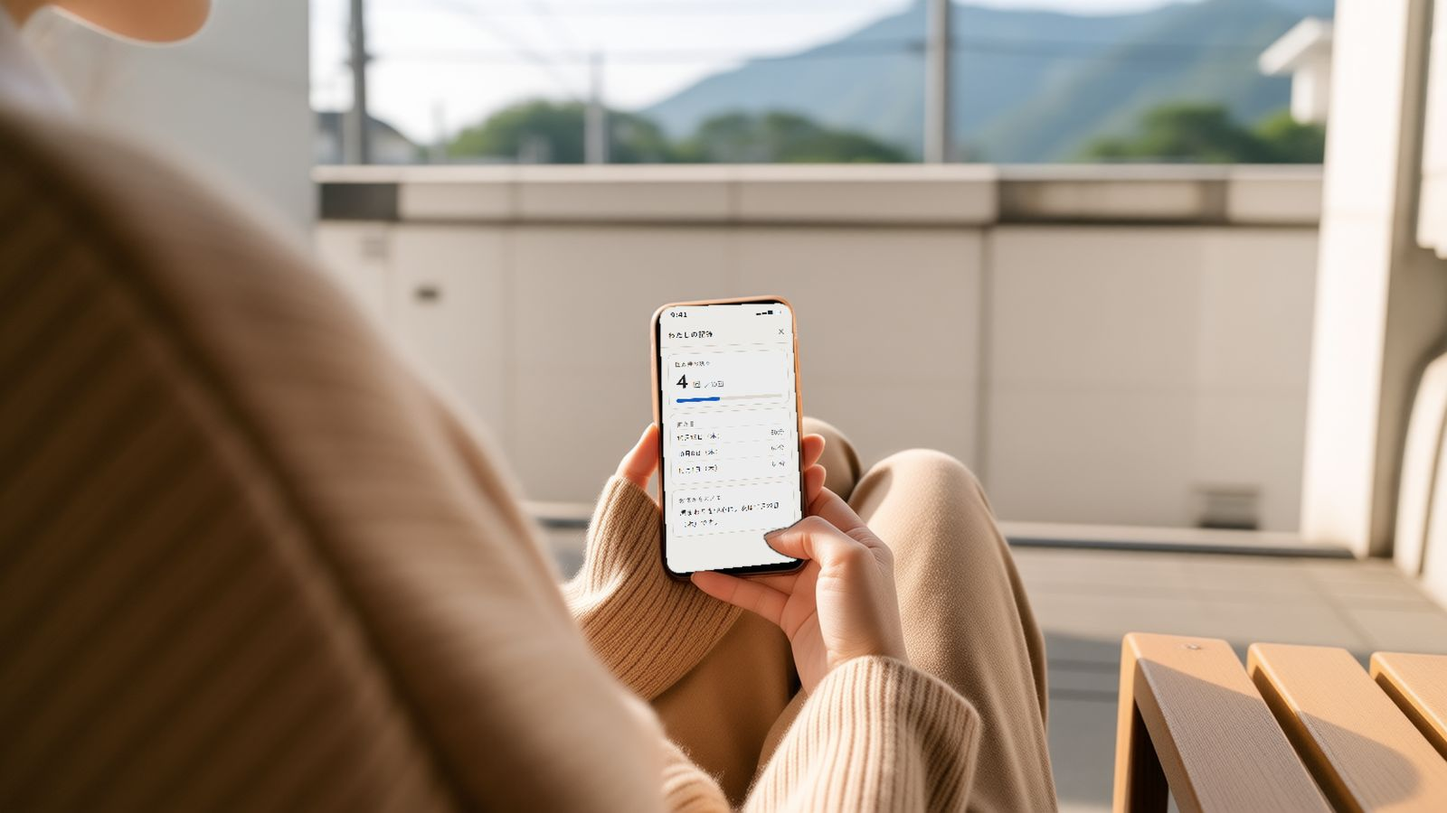
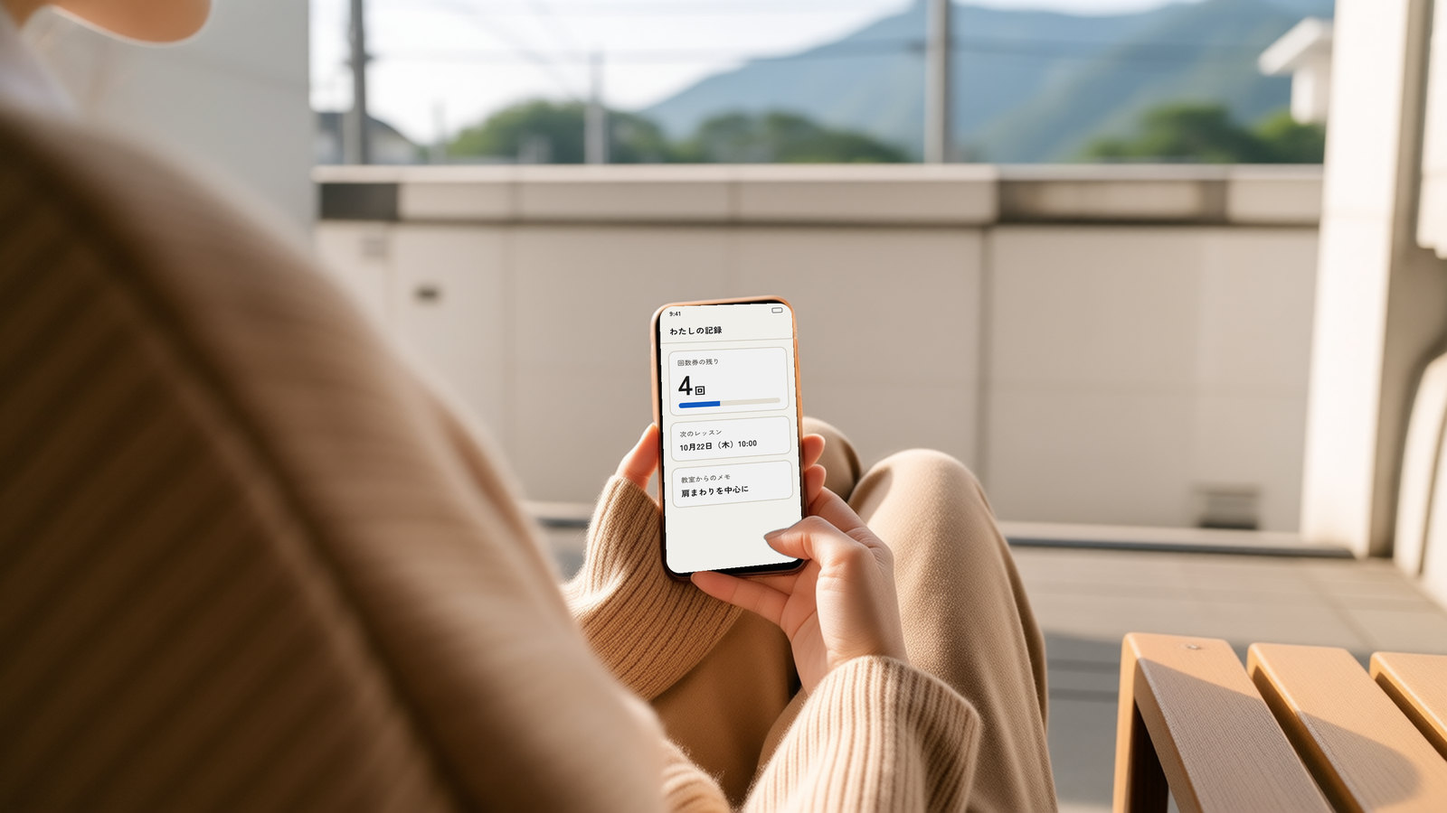
スマホの画面のガビガビを直した: 写真を2倍に広げてから、画面を先にはめる大きさまで縮めて射影（大きい画像を一気に縮めて字と線が欠けていた）。画面の見本は字を大きく・少なくした。JPEG は 4:4:4・品質86。画像の版を v=5 に
Claude-Session: https://claude.ai/code/session_01JTS9wHoswqBZuuv7uGtGUu

Changed region(s): [[0.4688, 0.3733, 0.5625, 0.6533], [0.5312, 0.6222, 0.5625, 0.6533], [0.5312, 0.3733, 0.5625, 0.4044]]

diff --git a/line/index.html b/line/index.html
@@ -13,7 +13,7 @@
 <link rel="preload" href="../assets/fonts/zenkaku-500.woff2" as="font" type="font/woff2" crossorigin>
 <script>if(!matchMedia("(prefers-reduced-motion: reduce)").matches&&!/[?&#]edit\b/.test(location.search+location.hash)){document.documentElement.classList.add("anim");setTimeout(function(){if(!document.documentElement.classList.contains("ready"))document.documentElement.classList.remove("anim")},3000)}</script>
 <link rel="stylesheet" href="../style.css?v=h2">
-<link rel="stylesheet" href="../line/line.css?v=4">
+<link rel="stylesheet" href="../line/line.css?v=5">
 <script src="../script.js?v=h1" defer></script>
 </head>
 <body class="page-line v3" data-line-url="https://line.me/R/ti/p/@914vzoom" data-line-id="@914vzoom" data-count="">
@@ -49,7 +49,7 @@
 <p class="hero-when">いまは相談と見積もりを受け付けています。作り始めは2027年1月からの予定です。</p>
 </div>
 <figure class="hero-figure hv">
-<video autoplay muted loop playsinline preload="metadata" poster="../assets/line/hero-poster.jpg?v=4" width="1280" height="720" aria-label="朝の教室の受付。カウンターのお茶から湯気が立つイメージ映像"><source src="../assets/line/hero.mp4?v=4" type="video/mp4"></video>
+<video autoplay muted loop playsinline preload="metadata" poster="../assets/line/hero-poster.jpg?v=5" width="1280" height="720" aria-label="朝の教室の受付。カウンターのお茶から湯気が立つイメージ映像"><source src="../assets/line/hero.mp4?v=5" type="video/mp4"></video>
 <button class="hv-btn" type="button" data-s="pause" aria-label="映像を止める"><svg class="ic" aria-hidden="true"><use class="u-pause" href="#i-pause"/><use class="u-play" href="#i-play"/></svg></button>
 </figure>
 </section>
@@ -57,21 +57,21 @@
 <p class="label"><span class="en">ISSUES</span><span class="t">こんなこと、ありませんか</span></p>
 <h2 id="issues-title">毎日の、<br>小さな手間。</h2>
 <ul class="pcards">
-<li><img class="" src="../assets/line/before-kiroku-1600.jpg?v=4" srcset="../assets/line/before-kiroku-800.jpg?v=4 800w, ../assets/line/before-kiroku-1600.jpg?v=4 1600w" sizes="(max-width: 760px) 100vw, 50vw" width="1600" height="900" alt="机の上の紙の回数券とスタンプ" loading="lazy" decoding="async"><p>「あと何回でしたっけ？」と聞かれるたびに、紙のカードや表を探している。</p></li>
-<li><img class="" src="../assets/line/before-yoyaku-1600.jpg?v=4" srcset="../assets/line/before-yoyaku-800.jpg?v=4 800w, ../assets/line/before-yoyaku-1600.jpg?v=4 1600w" sizes="(max-width: 760px) 100vw, 50vw" width="1600" height="900" alt="お店のカウンターの予約の台帳と電話" loading="lazy" decoding="async"><p>予約の電話や DM を手帳に書き写して、確認の連絡を返している。</p></li>
-<li><img class="" src="../assets/line/before-chiiki-1600.jpg?v=4" srcset="../assets/line/before-chiiki-800.jpg?v=4 800w, ../assets/line/before-chiiki-1600.jpg?v=4 1600w" sizes="(max-width: 760px) 100vw, 50vw" width="1600" height="900" alt="公民館の掲示板に貼られたたくさんの紙" loading="lazy" decoding="async"><p>団体の連絡が、担当の人の個人の LINE と掲示板の紙に頼っている。</p></li>
+<li><img class="" src="../assets/line/before-kiroku-1600.jpg?v=5" srcset="../assets/line/before-kiroku-800.jpg?v=5 800w, ../assets/line/before-kiroku-1600.jpg?v=5 1600w" sizes="(max-width: 760px) 100vw, 50vw" width="1600" height="900" alt="机の上の紙の回数券とスタンプ" loading="lazy" decoding="async"><p>「あと何回でしたっけ？」と聞かれるたびに、紙のカードや表を探している。</p></li>
+<li><img class="" src="../assets/line/before-yoyaku-1600.jpg?v=5" srcset="../assets/line/before-yoyaku-800.jpg?v=5 800w, ../assets/line/before-yoyaku-1600.jpg?v=5 1600w" sizes="(max-width: 760px) 100vw, 50vw" width="1600" height="900" alt="お店のカウンターの予約の台帳と電話" loading="lazy" decoding="async"><p>予約の電話や DM を手帳に書き写して、確認の連絡を返している。</p></li>
+<li><img class="" src="../assets/line/before-chiiki-1600.jpg?v=5" srcset="../assets/line/before-chiiki-800.jpg?v=5 800w, ../assets/line/before-chiiki-1600.jpg?v=5 1600w" sizes="(max-width: 760px) 100vw, 50vw" width="1600" height="900" alt="公民館の掲示板に貼られたたくさんの紙" loading="lazy" decoding="async"><p>団体の連絡が、担当の人の個人の LINE と掲示板の紙に頼っている。</p></li>
 </ul>
 </section>
 <section class="sec " id="lps" aria-labelledby="lps-title">
 <p class="label"><span class="en">WHAT</span><span class="t">できること</span></p>
 <h2 id="lps-title">困りごとに合わせて、<br>3つの仕組み。</h2>
-<ul class="scards"><li><a class="scard" href="kiroku/"><img class="" src="../assets/line/kiroku-1600.jpg?v=4" srcset="../assets/line/kiroku-800.jpg?v=4 800w, ../assets/line/kiroku-1600.jpg?v=4 1600w" sizes="(max-width: 760px) 100vw, 50vw" width="1600" height="900" alt="ピラティス教室の受付でスマホを持つ人の後ろ姿" loading="lazy" decoding="async"><div class="scard-b"><h3>会員さんが、自分で<br>残り回数を見られる</h3><p>回数券の残り・来た日・教室からのメモを、会員さんが LINE からいつでも見られます。</p><p class="scard-who">教室・スクール・サロン・サークル</p><p class="scard-p"><span class="n">330,000</span>円〜<small>はじめに作る・税込</small></p><p class="scard-go">くわしく見る</p></div></a></li><li><a class="scard" href="yoyaku/"><img class="" src="../assets/line/yoyaku-1600.jpg?v=4" srcset="../assets/line/yoyaku-800.jpg?v=4 800w, ../assets/line/yoyaku-1600.jpg?v=4 1600w" sizes="(max-width: 760px) 100vw, 50vw" width="1600" height="900" alt="陶芸の工房でスマホを持つ店主の手元" loading="lazy" decoding="async"><div class="scard-b"><h3>予約を LINE で受けて、<br>確かめてから確定</h3><p>お客さんは空いている日を選んで仮予約。お店は内容を確かめてから「確定」。前の日の知らせも LINE で。</p><p class="scard-who">体験・工房・サロン・教室</p><p class="scard-p"><span class="n">165,000</span>円〜<small>はじめに作る・税込</small></p><p class="scard-go">くわしく見る</p></div></a></li><li><a class="scard" href="chiiki/"><img class="" src="../assets/line/chiiki-1600.jpg?v=4" srcset="../assets/line/chiiki-800.jpg?v=4 800w, ../assets/line/chiiki-1600.jpg?v=4 1600w" sizes="(max-width: 760px) 100vw, 50vw" width="1600" height="900" alt="子ども食堂の準備ができた長机。おにぎりとお味噌汁が並ぶ" loading="lazy" decoding="async"><div class="scard-b"><h3>団体のお知らせを、<br>人が代わっても続く形に</h3><p>開催日のお知らせや、よくある質問への返事を、団体の LINE で。引き継ぎの手順書もつけます。</p><p class="scard-who">子ども食堂・NPO・地区の会</p><p class="scard-p"><span class="n">100,000</span>円〜<small>はじめに作る・税込</small></p><p class="scard-go">くわしく見る</p></div></a></li></ul><p class="note">金額は、はじめに作る費用（税込）です。月々の利用料が別にかかることがあり、見積書に分けて書きます。どれにも当てはまらなくても、まず30分話してみてください。いまの困りごとに合わせて、組み合わせや別の形も考えます。</p>
+<ul class="scards"><li><a class="scard" href="kiroku/"><img class="" src="../assets/line/kiroku-1600.jpg?v=5" srcset="../assets/line/kiroku-800.jpg?v=5 800w, ../assets/line/kiroku-1600.jpg?v=5 1600w" sizes="(max-width: 760px) 100vw, 50vw" width="1600" height="900" alt="ピラティス教室の受付でスマホを持つ人の後ろ姿" loading="lazy" decoding="async"><div class="scard-b"><h3>会員さんが、自分で<br>残り回数を見られる</h3><p>回数券の残り・来た日・教室からのメモを、会員さんが LINE からいつでも見られます。</p><p class="scard-who">教室・スクール・サロン・サークル</p><p class="scard-p"><span class="n">330,000</span>円〜<small>はじめに作る・税込</small></p><p class="scard-go">くわしく見る</p></div></a></li><li><a class="scard" href="yoyaku/"><img class="" src="../assets/line/yoyaku-1600.jpg?v=5" srcset="../assets/line/yoyaku-800.jpg?v=5 800w, ../assets/line/yoyaku-1600.jpg?v=5 1600w" sizes="(max-width: 760px) 100vw, 50vw" width="1600" height="900" alt="陶芸の工房でスマホを持つ店主の手元" loading="lazy" decoding="async"><div class="scard-b"><h3>予約を LINE で受けて、<br>確かめてから確定</h3><p>お客さんは空いている日を選んで仮予約。お店は内容を確かめてから「確定」。前の日の知らせも LINE で。</p><p class="scard-who">体験・工房・サロン・教室</p><p class="scard-p"><span class="n">165,000</span>円〜<small>はじめに作る・税込</small></p><p class="scard-go">くわしく見る</p></div></a></li><li><a class="scard" href="chiiki/"><img class="" src="../assets/line/chiiki-1600.jpg?v=5" srcset="../assets/line/chiiki-800.jpg?v=5 800w, ../assets/line/chiiki-1600.jpg?v=5 1600w" sizes="(max-width: 760px) 100vw, 50vw" width="1600" height="900" alt="子ども食堂の準備ができた長机。おにぎりとお味噌汁が並ぶ" loading="lazy" decoding="async"><div class="scard-b"><h3>団体のお知らせを、<br>人が代わっても続く形に</h3><p>開催日のお知らせや、よくある質問への返事を、団体の LINE で。引き継ぎの手順書もつけます。</p><p class="scard-who">子ども食堂・NPO・地区の会</p><p class="scard-p"><span class="n">100,000</span>円〜<small>はじめに作る・税込</small></p><p class="scard-go">くわしく見る</p></div></a></li></ul><p class="note">金額は、はじめに作る費用（税込）です。月々の利用料が別にかかることがあり、見積書に分けて書きます。どれにも当てはまらなくても、まず30分話してみてください。いまの困りごとに合わせて、組み合わせや別の形も考えます。</p>
 </section>
 <section class="sec " id="member" aria-labelledby="member-title">
 <p class="label"><span class="en">FOR CUSTOMERS</span><span class="t">お客さんから見ると</span></p>
 <h2 id="member-title">新しいアプリは、いらない。<br>いつもの LINE から。</h2>
 <div class="split">
-<figure class="split-fig"><img class="" src="../assets/line/member-1600.jpg?v=4" srcset="../assets/line/member-800.jpg?v=4 800w, ../assets/line/member-1600.jpg?v=4 1600w" sizes="(max-width: 760px) 100vw, 50vw" width="1600" height="900" alt="駅のベンチで、膝の上のスマホを両手で持って見ている人の手元。画面には残り回数の見本" loading="lazy" decoding="async"></figure>
+<figure class="split-fig"><img class="" src="../assets/line/member-1600.jpg?v=5" srcset="../assets/line/member-800.jpg?v=5 800w, ../assets/line/member-1600.jpg?v=5 1600w" sizes="(max-width: 760px) 100vw, 50vw" width="1600" height="900" alt="駅のベンチで、膝の上のスマホを両手で持って見ている人の手元。画面には残り回数の見本" loading="lazy" decoding="async"></figure>
 <ol class="steps3">
 <li><p class="flow-no">01</p><h3>友だちに追加する</h3><p>お店・団体の LINE公式アカウントを友だちに追加します。LINE のほかに、新しいアプリはいりません。</p></li>
 <li><p class="flow-no">02</p><h3>はじめに一度、確認する</h3><p>はじめてページを開くときに「許可する」を押します。会員さんの記録なら、お店で QR コードを読むなど、本人の確認も一度だけ。</p></li>

diff --git a/line/kiroku/index.html b/line/kiroku/index.html
@@ -13,7 +13,7 @@
 <link rel="preload" href="../../assets/fonts/zenkaku-500.woff2" as="font" type="font/woff2" crossorigin>
 <script>if(!matchMedia("(prefers-reduced-motion: reduce)").matches&&!/[?&#]edit\b/.test(location.search+location.hash)){document.documentElement.classList.add("anim");setTimeout(function(){if(!document.documentElement.classList.contains("ready"))document.documentElement.classList.remove("anim")},3000)}</script>
 <link rel="stylesheet" href="../../style.css?v=h2">
-<link rel="stylesheet" href="../../line/line.css?v=4">
+<link rel="stylesheet" href="../../line/line.css?v=5">
 <script src="../../script.js?v=h1" defer></script>
 </head>
 <body class="page-line v3" data-line-url="https://line.me/R/ti/p/@914vzoom" data-line-id="@914vzoom" data-count="">
@@ -49,13 +49,13 @@
 <p class="hero-for">教室・スクール・サロン・サークルなど、会員制のかたへ。</p>
 <p class="hero-when">いまは相談と見積もりを受け付けています。作り始めは2027年1月からの予定です。月々の利用料が別にかかることがあり、見積書に書きます。</p>
 </div>
-<figure class="hero-figure hp"><img class="" src="../../assets/line/kiroku-1600.jpg?v=4" srcset="../../assets/line/kiroku-800.jpg?v=4 800w, ../../assets/line/kiroku-1600.jpg?v=4 1600w" sizes="(max-width: 760px) 100vw, 50vw" width="1600" height="900" alt="ピラティス教室の受付でスマホを持つ人の後ろ姿"><div class="hp-mock l" aria-hidden="true"><div class="mk mk-page "><div class="mk-notch" aria-hidden="true"></div><div class="mk-top mk-top-page"><span class="mk-name">わたしの記録</span></div><div class="mk-body"><div class="mk-card"><p class="mk-k">回数券の残り</p><p class="mk-big">4<small>回</small><span>／10回</span></p><p class="mk-bar"><i style="width:40%"></i></p></div><div class="mk-card"><p class="mk-k">来た日</p><p class="mk-row">10月15日（木）<span>60分</span></p><p class="mk-row">10月8日（木）<span>60分</span></p><p class="mk-row">10月1日（木）<span>60分</span></p></div><div class="mk-card"><p class="mk-k">教室からのメモ</p><p class="mk-t">肩まわりを中心に。次は10月22日（木）です。</p></div><div class="mk-card"><p class="mk-k">自分のメモ</p><p class="mk-row mk-memo">家でストレッチ5分<span class="mk-del">消す</span></p></div></div><p class="mk-tag">見本</p></div></div></figure>
+<figure class="hero-figure hp"><img class="" src="../../assets/line/kiroku-1600.jpg?v=5" srcset="../../assets/line/kiroku-800.jpg?v=5 800w, ../../assets/line/kiroku-1600.jpg?v=5 1600w" sizes="(max-width: 760px) 100vw, 50vw" width="1600" height="900" alt="ピラティス教室の受付でスマホを持つ人の後ろ姿"><div class="hp-mock l" aria-hidden="true"><div class="mk mk-page "><div class="mk-notch" aria-hidden="true"></div><div class="mk-top mk-top-page"><span class="mk-name">わたしの記録</span></div><div class="mk-body"><div class="mk-card"><p class="mk-k">回数券の残り</p><p class="mk-big">4<small>回</small><span>／10回</span></p><p class="mk-bar"><i style="width:40%"></i></p></div><div class="mk-card"><p class="mk-k">来た日</p><p class="mk-row">10月15日（木）<span>60分</span></p><p class="mk-row">10月8日（木）<span>60分</span></p><p class="mk-row">10月1日（木）<span>60分</span></p></div><div class="mk-card"><p class="mk-k">教室からのメモ</p><p class="mk-t">肩まわりを中心に。次は10月22日（木）です。</p></div><div class="mk-card"><p class="mk-k">自分のメモ</p><p class="mk-row mk-memo">家でストレッチ5分<span class="mk-del">消す</span></p></div></div><p class="mk-tag">見本</p></div></div></figure>
 </section>
 <section class="sec " id="issues" aria-labelledby="issues-title">
 <p class="label"><span class="en">ISSUES</span><span class="t">こんなこと、ありませんか</span></p>
 <h2 id="issues-title">聞く側も、<br>答える側も。</h2>
 <div class="split split-r">
-<figure class="split-fig"><img class="" src="../../assets/line/before-kiroku-1600.jpg?v=4" srcset="../../assets/line/before-kiroku-800.jpg?v=4 800w, ../../assets/line/before-kiroku-1600.jpg?v=4 1600w" sizes="(max-width: 760px) 100vw, 50vw" width="1600" height="900" alt="机の上の紙の回数券とスタンプ" loading="lazy" decoding="async"></figure>
+<figure class="split-fig"><img class="" src="../../assets/line/before-kiroku-1600.jpg?v=5" srcset="../../assets/line/before-kiroku-800.jpg?v=5 800w, ../../assets/line/before-kiroku-1600.jpg?v=5 1600w" sizes="(max-width: 760px) 100vw, 50vw" width="1600" height="900" alt="机の上の紙の回数券とスタンプ" loading="lazy" decoding="async"></figure>
 <div class="pains2"><div><h3>会員さんは</h3><ul><li>残り回数を、営業時間を気にせず確かめたい</li><li>前に言われたことを、あとから見返したい</li><li>回数券の紙を、なくしてしまう</li></ul></div><div><h3>お店・教室は</h3><ul><li>「あと何回？」と聞かれるたびに、紙や表を探している</li><li>記録が、紙とスマホとパソコンに散らばっている</li><li>レッスンの合間に、返事を打つ時間がない</li></ul></div></div>
 </div>
 </section>

diff --git a/line/chiiki/index.html b/line/chiiki/index.html
@@ -13,7 +13,7 @@
 <link rel="preload" href="../../assets/fonts/zenkaku-500.woff2" as="font" type="font/woff2" crossorigin>
 <script>if(!matchMedia("(prefers-reduced-motion: reduce)").matches&&!/[?&#]edit\b/.test(location.search+location.hash)){document.documentElement.classList.add("anim");setTimeout(function(){if(!document.documentElement.classList.contains("ready"))document.documentElement.classList.remove("anim")},3000)}</script>
 <link rel="stylesheet" href="../../style.css?v=h2">
-<link rel="stylesheet" href="../../line/line.css?v=4">
+<link rel="stylesheet" href="../../line/line.css?v=5">
 <script src="../../script.js?v=h1" defer></script>
 </head>
 <body class="page-line v3" data-line-url="https://line.me/R/ti/p/@914vzoom" data-line-id="@914vzoom" data-count="">
@@ -49,13 +49,13 @@
 <p class="hero-for">子ども食堂・NPO・地区の見守り・若者の居場所のかたへ。</p>
 <p class="hero-when">いまは相談と見積もりを受け付けています。作り始めは2027年1月からの予定です。月々の利用料が別にかかることがあり、見積書に書きます。</p>
 </div>
-<figure class="hero-figure hp"><img class="" src="../../assets/line/chiiki-1600.jpg?v=4" srcset="../../assets/line/chiiki-800.jpg?v=4 800w, ../../assets/line/chiiki-1600.jpg?v=4 1600w" sizes="(max-width: 760px) 100vw, 50vw" width="1600" height="900" alt="子ども食堂の準備ができた長机。おにぎりとお味噌汁が並ぶ"><div class="hp-mock l" aria-hidden="true"><div class="mk mk-msgs"><p class="mk-mh">LINE で届く文</p><div class="mk-body"><p class="mk-when">トークの下に出すメニューの画像（例）</p><div class="mk-menu"><span>お知らせ</span><span>次の開催日</span><span>よくある質問</span></div><div class="mk-msg"><p class="mk-when">11月1日（日）・定期のお知らせ</p><p class="mk-mt">11月の食堂は、14日（土）と28日（土）の17時からです。予約はいりません。紙のお知らせは、公民館の掲示板にも貼っています。</p></div></div><p class="mk-tag">文の例</p></div></div></figure>
+<figure class="hero-figure hp"><img class="" src="../../assets/line/chiiki-1600.jpg?v=5" srcset="../../assets/line/chiiki-800.jpg?v=5 800w, ../../assets/line/chiiki-1600.jpg?v=5 1600w" sizes="(max-width: 760px) 100vw, 50vw" width="1600" height="900" alt="子ども食堂の準備ができた長机。おにぎりとお味噌汁が並ぶ"><div class="hp-mock l" aria-hidden="true"><div class="mk mk-msgs"><p class="mk-mh">LINE で届く文</p><div class="mk-body"><p class="mk-when">トークの下に出すメニューの画像（例）</p><div class="mk-menu"><span>お知らせ</span><span>次の開催日</span><span>よくある質問</span></div><div class="mk-msg"><p class="mk-when">11月1日（日）・定期のお知らせ</p><p class="mk-mt">11月の食堂は、14日（土）と28日（土）の17時からです。予約はいりません。紙のお知らせは、公民館の掲示板にも貼っています。</p></div></div><p class="mk-tag">文の例</p></div></div></figure>
 </section>
 <section class="sec " id="issues" aria-labelledby="issues-title">
 <p class="label"><span class="en">ISSUES</span><span class="t">こんなこと、ありませんか</span></p>
 <h2 id="issues-title">連絡が、<br>あの人のスマホに。</h2>
 <div class="split split-r">
-<figure class="split-fig"><img class="" src="../../assets/line/before-chiiki-1600.jpg?v=4" srcset="../../assets/line/before-chiiki-800.jpg?v=4 800w, ../../assets/line/before-chiiki-1600.jpg?v=4 1600w" sizes="(max-width: 760px) 100vw, 50vw" width="1600" height="900" alt="公民館の掲示板に貼られたたくさんの紙" loading="lazy" decoding="async"></figure>
+<figure class="split-fig"><img class="" src="../../assets/line/before-chiiki-1600.jpg?v=5" srcset="../../assets/line/before-chiiki-800.jpg?v=5 800w, ../../assets/line/before-chiiki-1600.jpg?v=5 1600w" sizes="(max-width: 760px) 100vw, 50vw" width="1600" height="900" alt="公民館の掲示板に貼られたたくさんの紙" loading="lazy" decoding="async"></figure>
 <div class="pains2"><div><h3>受け取る人は</h3><ul><li>前のお知らせを、あとから見返したい</li><li>次の開催日だけ、さっと知りたい</li><li>LINE を使っていない家もある</li></ul></div><div><h3>団体は</h3><ul><li>個人のスマホの LINE で、団体の連絡をしている</li><li>担当が代わるたびに、やり方の説明をやり直している</li><li>無料の枠で足りるのか、わからない</li></ul></div></div>
 </div>
 </section>

diff --git a/line/yoyaku/index.html b/line/yoyaku/index.html
@@ -13,7 +13,7 @@
 <link rel="preload" href="../../assets/fonts/zenkaku-500.woff2" as="font" type="font/woff2" crossorigin>
 <script>if(!matchMedia("(prefers-reduced-motion: reduce)").matches&&!/[?&#]edit\b/.test(location.search+location.hash)){document.documentElement.classList.add("anim");setTimeout(function(){if(!document.documentElement.classList.contains("ready"))document.documentElement.classList.remove("anim")},3000)}</script>
 <link rel="stylesheet" href="../../style.css?v=h2">
-<link rel="stylesheet" href="../../line/line.css?v=4">
+<link rel="stylesheet" href="../../line/line.css?v=5">
 <script src="../../script.js?v=h1" defer></script>
 </head>
 <body class="page-line v3" data-line-url="https://line.me/R/ti/p/@914vzoom" data-line-id="@914vzoom" data-count="">
@@ -49,13 +49,13 @@
 <p class="hero-for">体験の内容や人数を確かめてから予約を受けたい、体験・工房・サロン・教室のかたへ。</p>
 <p class="hero-when">いまは相談と見積もりを受け付けています。作り始めは2027年1月からの予定です。月々の利用料が別にかかることがあり、見積書に書きます。</p>
 </div>
-<figure class="hero-figure hp"><img class="" src="../../assets/line/yoyaku-1600.jpg?v=4" srcset="../../assets/line/yoyaku-800.jpg?v=4 800w, ../../assets/line/yoyaku-1600.jpg?v=4 1600w" sizes="(max-width: 760px) 100vw, 50vw" width="1600" height="900" alt="陶芸の工房でスマホを持つ店主の手元"></figure>
+<figure class="hero-figure hp"><img class="" src="../../assets/line/yoyaku-1600.jpg?v=5" srcset="../../assets/line/yoyaku-800.jpg?v=5 800w, ../../assets/line/yoyaku-1600.jpg?v=5 1600w" sizes="(max-width: 760px) 100vw, 50vw" width="1600" height="900" alt="陶芸の工房でスマホを持つ店主の手元"></figure>
 </section>
 <section class="sec " id="issues" aria-labelledby="issues-title">
 <p class="label"><span class="en">ISSUES</span><span class="t">こんなこと、ありませんか</span></p>
 <h2 id="issues-title">電話に出られない<br>時間にも、予約は来る。</h2>
 <div class="split split-r">
-<figure class="split-fig"><img class="" src="../../assets/line/before-yoyaku-1600.jpg?v=4" srcset="../../assets/line/before-yoyaku-800.jpg?v=4 800w, ../../assets/line/before-yoyaku-1600.jpg?v=4 1600w" sizes="(max-width: 760px) 100vw, 50vw" width="1600" height="900" alt="お店のカウンターの予約の台帳と電話" loading="lazy" decoding="async"></figure>
+<figure class="split-fig"><img class="" src="../../assets/line/before-yoyaku-1600.jpg?v=5" srcset="../../assets/line/before-yoyaku-800.jpg?v=5 800w, ../../assets/line/before-yoyaku-1600.jpg?v=5 1600w" sizes="(max-width: 760px) 100vw, 50vw" width="1600" height="900" alt="お店のカウンターの予約の台帳と電話" loading="lazy" decoding="async"></figure>
 <div class="pains2"><div><h3>お客さんは</h3><ul><li>予約が確定したのか、わかりにくい</li><li>夜や休みの日に、空いている日を見たい</li><li>前の日に、時間を確かめたい</li></ul></div><div><h3>お店は</h3><ul><li>施術中・体験中は、電話に出られない</li><li>電話と DM を見比べて、確認の連絡をしている</li><li>はじめての人には、先に内容を聞いてから受けたい</li></ul></div></div>
 </div><p class="note">予約を受けるだけなら、月額の予約サービスで足りることもあります。30分の相談で一緒に見て、足りないときだけ作ります。</p>
 </section>

diff --git a/index.html b/index.html
@@ -97,7 +97,7 @@
 <h2 id="product-title">お客さんとのやりとりを、<br>いつもの LINE で。</h2>
 <p class="sec-lead">LINE公式アカウントの仕組みづくり。会員さんの残り回数、予約の確定、団体のお知らせ。いま電話や紙でやっていることを、お客さんがふだん使っている LINE の中で済むようにします。お客さんがアプリを入れる必要はありません。</p>
 <div class="prod">
-<a class="prod-fig" href="line/"><img src="assets/line/member-800.jpg?v=4" srcset="assets/line/member-800.jpg?v=4 800w, assets/line/member-1600.jpg?v=4 1600w" sizes="(max-width: 760px) 100vw, 50vw" width="1600" height="900" alt="膝の上のスマホを両手で持って見ている人の手元。画面には残り回数の見本" loading="lazy" decoding="async"></a>
+<a class="prod-fig" href="line/"><img src="assets/line/member-800.jpg?v=5" srcset="assets/line/member-800.jpg?v=5 800w, assets/line/member-1600.jpg?v=5 1600w" sizes="(max-width: 760px) 100vw, 50vw" width="1600" height="900" alt="膝の上のスマホを両手で持って見ている人の手元。画面には残り回数の見本" loading="lazy" decoding="async"></a>
 <ul class="prod-list">
 <li><a href="line/kiroku/"><h3>会員記録</h3><p>回数券の残りや来た日を、会員さんが LINE から自分で見られる。教室・サロン・サークルに。</p></a></li>
 <li><a href="line/yoyaku/"><h3>予約</h3><p>LINE で仮予約を受けて、お店が確かめてから確定する。前の日の知らせも LINE で。</p></a></li>
